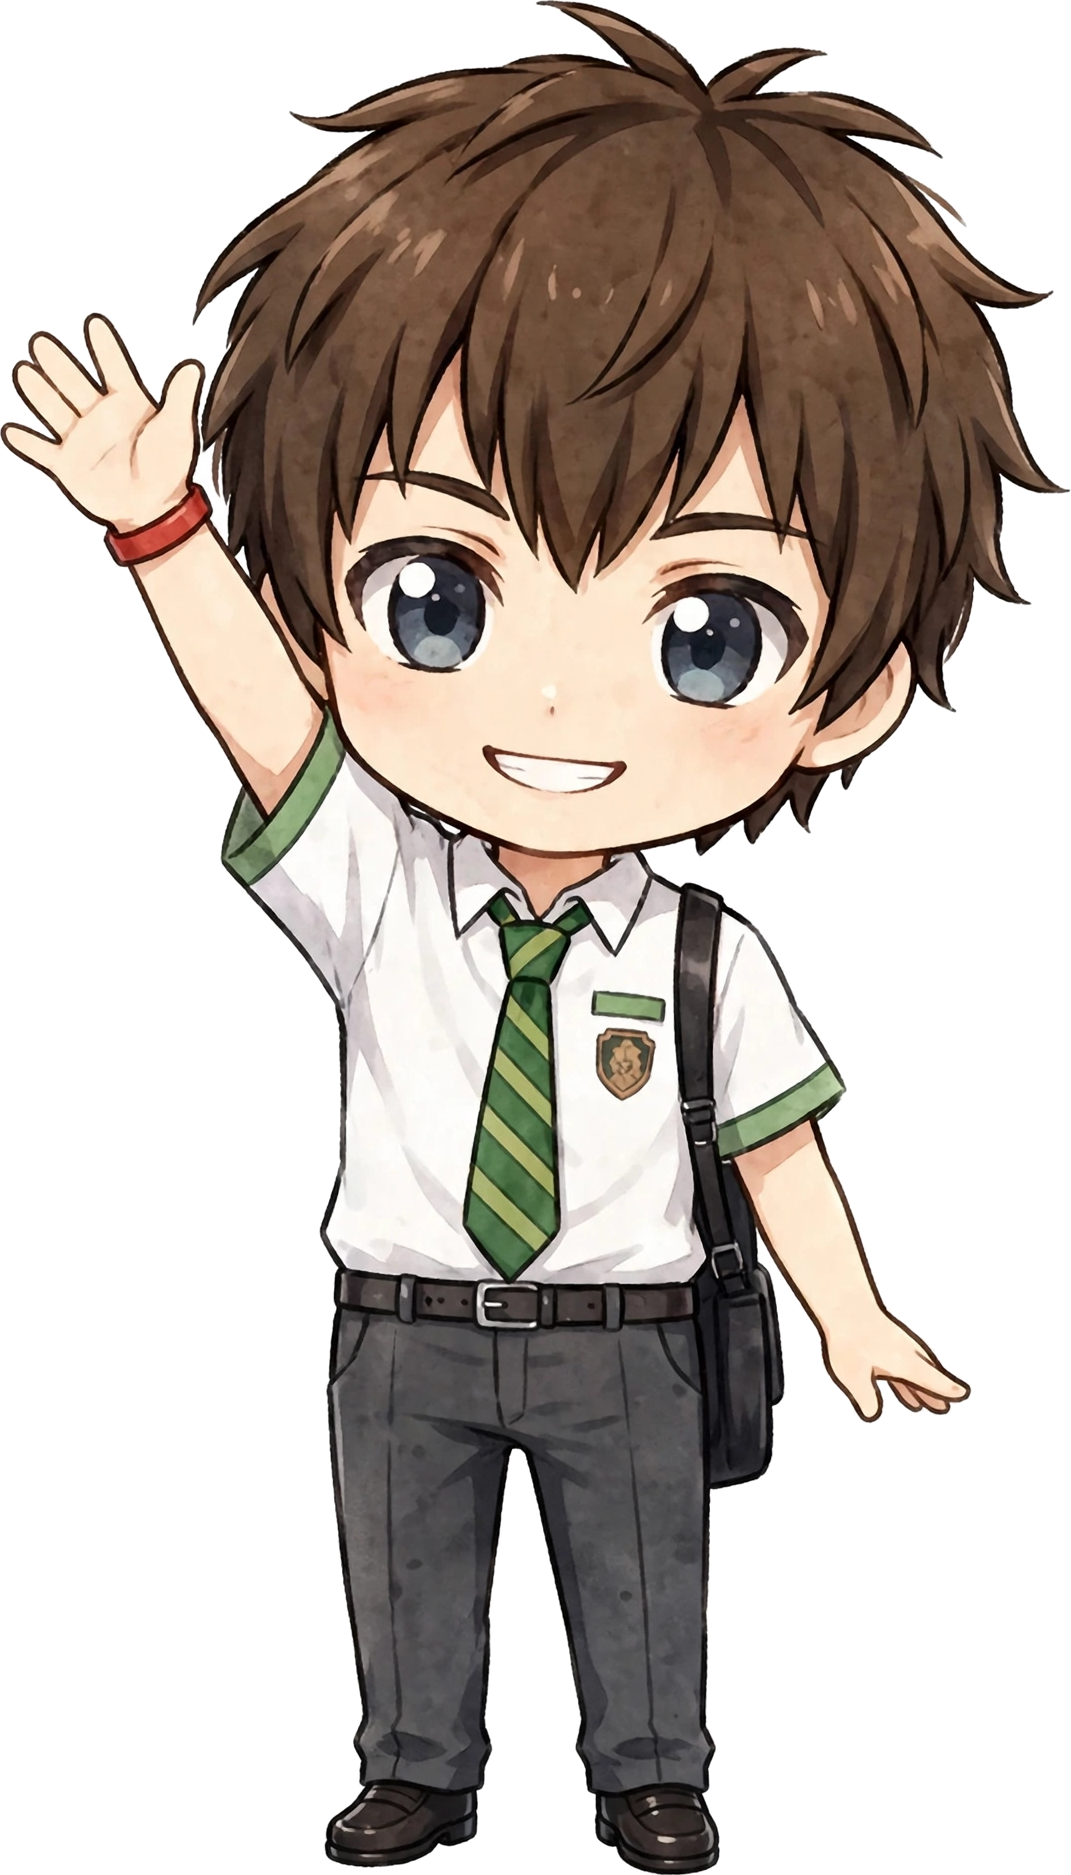
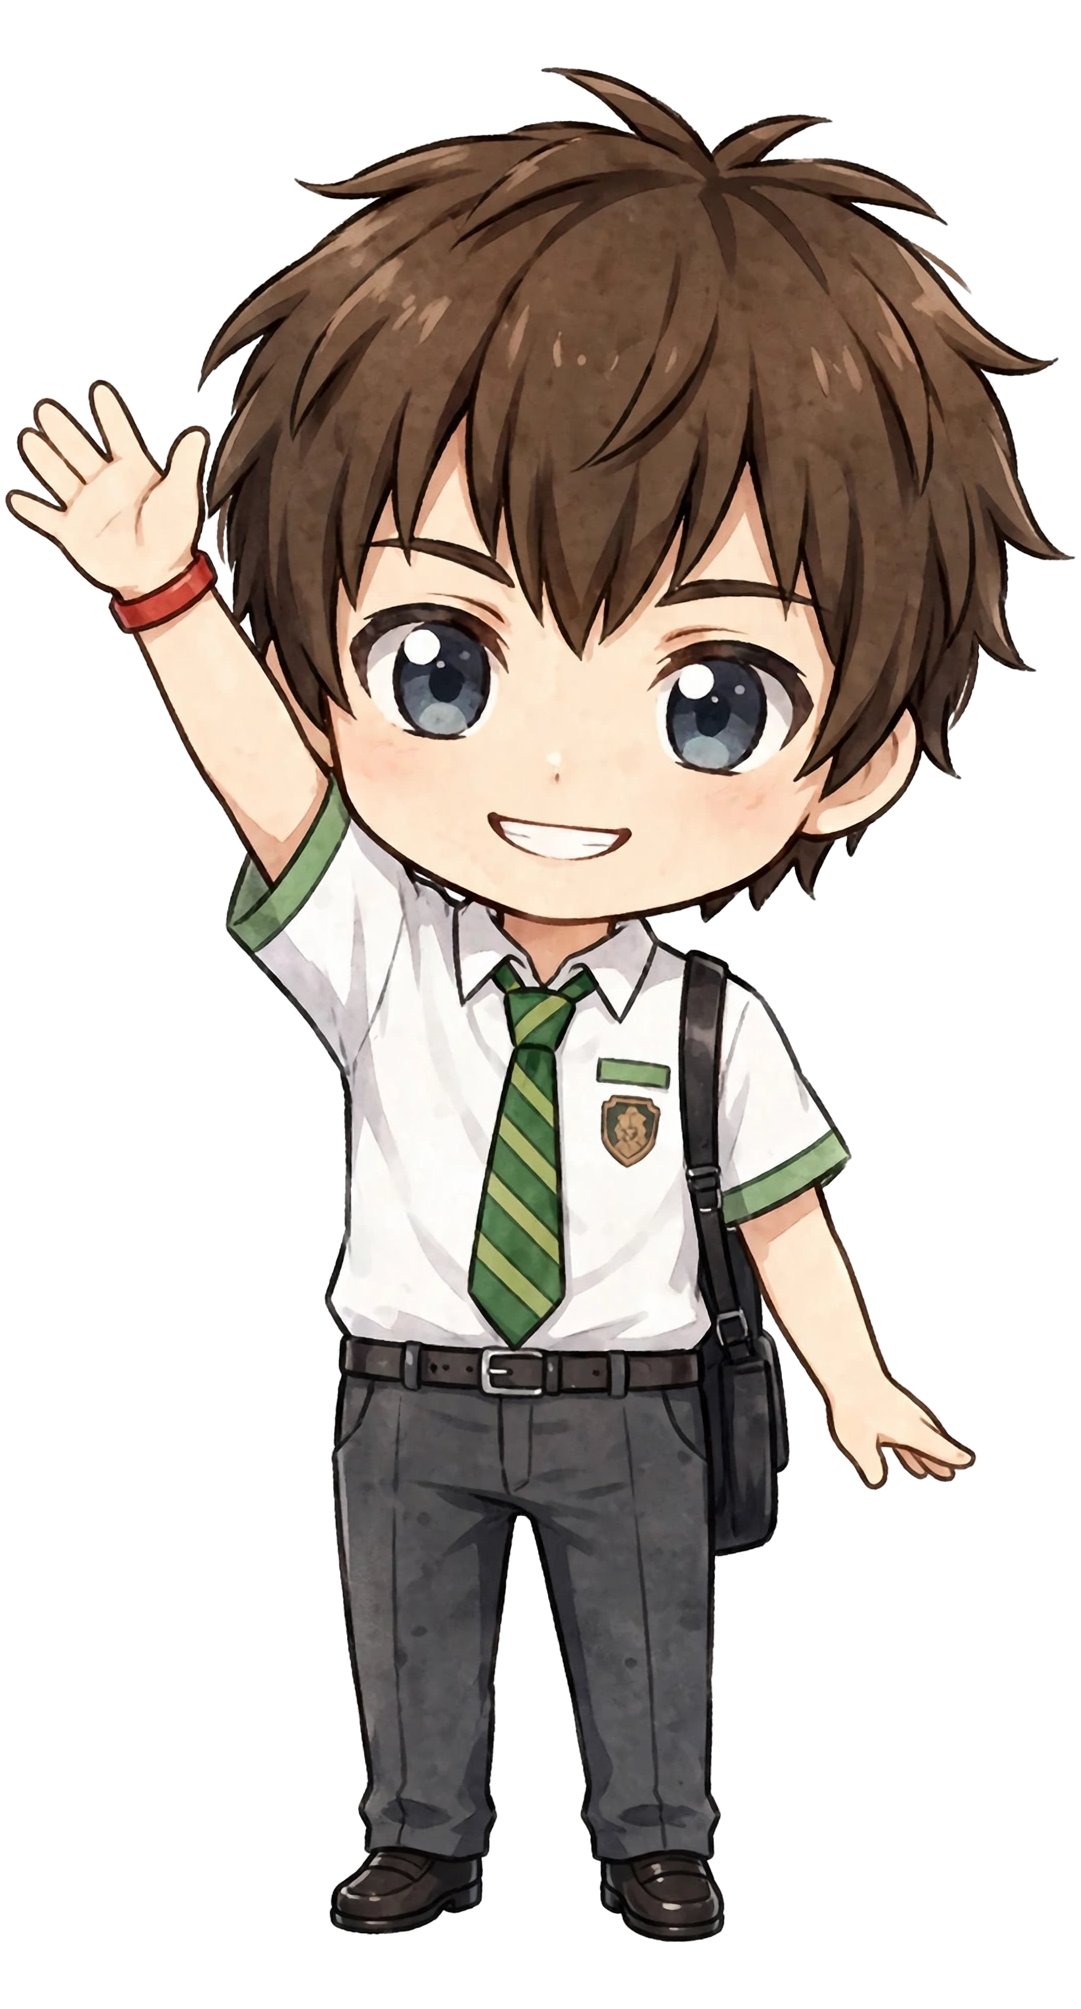
feat(yourname): Honors dạng ledger editorial; dây bện vẽ lại chân thật; chuẩn hoá canvas nhân vật + refactor PixelCharacter

Changed region(s): [[0.0, 0.0, 1.0, 1.0], [0.7703, 0.6496, 0.9244, 0.7733], [0.1541, 0.3403, 0.2157, 0.4021]]

diff --git a/src/components/yourname/BraidedCord.tsx b/src/components/yourname/BraidedCord.tsx
@@ -2,41 +2,98 @@
 
 /**
  * BraidedCord — the red braided-cord motif as a decorative divider.
- * Pure SVG: three interlaced strands + a musubi-style knot in the center.
+ *
+ * Rendered like a real kumihimo round braid: a cylindrical cord body with
+ * vertical shading, diagonal twist ribs, a top sheen highlight, and a
+ * musubi bow knot tied at the center (loops + wrap + hanging tails).
  * Used between sections and as small section markers.
  */
 
 import React from "react";
 
+const CORD_X0 = 14;
+const CORD_X1 = 586;
+const CORD_Y = 17;
+const CORD_H = 14;
+
+function TwistRibs() {
+  const ribs: React.ReactNode[] = [];
+  let i = 0;
+  for (let x = CORD_X0 + 8; x < CORD_X1 - 8; x += 13, i++) {
+    const dark = i % 2 === 0;
+    ribs.push(
+      <polygon
+        key={x}
+        points={`${x},${CORD_Y} ${x + 8},${CORD_Y} ${x + 3},${CORD_Y + CORD_H} ${x - 5},${CORD_Y + CORD_H}`}
+        fill={dark ? "rgba(40,4,12,0.28)" : "rgba(255,255,255,0.10)"}
+      />,
+    );
+  }
+  return <>{ribs}</>;
+}
+
 export function BraidedCord({ className = "" }: { className?: string }) {
-  // three sine strands interlaced
-  const strands = [0, 1, 2].map((s) => {
-    const pts: string[] = [];
-    for (let x = 0; x <= 600; x += 12) {
-      const y = 14 + Math.sin((x / 600) * Math.PI * 10 + (s * Math.PI * 2) / 3) * 7;
-      pts.push(`${x},${y.toFixed(1)}`);
-    }
-    return pts.join(" ");
-  });
-  const shades = ["#8f1f36", "#d8364f", "#f2698a"];
   return (
-    <div className={`yn-cord flex items-center justify-center gap-4 ${className}`} aria-hidden="true">
-      <svg viewBox="0 0 600 28" className="h-7 w-full max-w-xl" preserveAspectRatio="xMidYMid meet">
-        {strands.map((pts, i) => (
-          <polyline
-            key={i}
-            points={pts}
-            fill="none"
-            stroke={shades[i]}
-            strokeWidth={4.5 - i * 0.7}
-            strokeLinecap="round"
-            opacity={0.95 - i * 0.18}
-          />
-        ))}
-        {/* center knot */}
-        <circle cx={300} cy={14} r={9} fill="#d8364f" />
-        <circle cx={300} cy={14} r={9} fill="none" stroke="#8f1f36" strokeWidth={2.5} />
-        <circle cx={300} cy={14} r={3.2} fill="#ffd9e2" />
+    <div className={`flex items-center justify-center ${className}`} aria-hidden="true">
+      <svg viewBox="0 0 600 52" className="h-9 w-full max-w-xl" preserveAspectRatio="xMidYMid meet">
+        <defs>
+          <linearGradient id="yn-cord-body" x1="0" y1="0" x2="0" y2="1">
+            <stop offset="0" stopColor="#5e1224" />
+            <stop offset="0.32" stopColor="#b02340" />
+            <stop offset="0.5" stopColor="#f2768f" />
+            <stop offset="0.68" stopColor="#b02340" />
+            <stop offset="1" stopColor="#5e1224" />
+          </linearGradient>
+          <linearGradient id="yn-cord-knot" x1="0" y1="0" x2="0" y2="1">
+            <stop offset="0" stopColor="#e8556e" />
+            <stop offset="0.55" stopColor="#c22a44" />
+            <stop offset="1" stopColor="#8f1f36" />
+          </linearGradient>
+          <filter id="yn-cord-soft" x="-40%" y="-40%" width="180%" height="180%">
+            <feGaussianBlur stdDeviation="2.6" />
+          </filter>
+        </defs>
+
+        {/* ground shadow */}
+        <ellipse cx="300" cy="44" rx="252" ry="4.5" fill="#1a0a18" opacity="0.35" filter="url(#yn-cord-soft)" />
+
+        {/* tails (behind the knot) */}
+        <path d="M293,30 C290,37 286,42 280,47" fill="none" stroke="#8f1f36" strokeWidth="7" strokeLinecap="round" />
+        <path d="M293,30 C290,37 286,42 280,47" fill="none" stroke="#f2768f" strokeWidth="2" strokeLinecap="round" opacity="0.5" />
+        <path d="M307,30 C310,37 314,42 320,47" fill="none" stroke="#8f1f36" strokeWidth="7" strokeLinecap="round" />
+        <path d="M307,30 C310,37 314,42 320,47" fill="none" stroke="#f2768f" strokeWidth="2" strokeLinecap="round" opacity="0.5" />
+
+        {/* cord body */}
+        <rect x={CORD_X0} y={CORD_Y} width={CORD_X1 - CORD_X0} height={CORD_H} rx={CORD_H / 2} fill="url(#yn-cord-body)" />
+        <TwistRibs />
+        {/* sheen along the top */}
+        <rect x={CORD_X0 + 10} y={CORD_Y + 1.8} width={CORD_X1 - CORD_X0 - 20} height={2.6} rx={1.3} fill="#ffd9e2" opacity="0.32" />
+        {/* darker end caps */}
+        <ellipse cx={CORD_X0 + 2} cy={CORD_Y + CORD_H / 2} rx={6} ry={CORD_H / 2} fill="#4a0e1e" opacity="0.55" />
+        <ellipse cx={CORD_X1 - 2} cy={CORD_Y + CORD_H / 2} rx={6} ry={CORD_H / 2} fill="#4a0e1e" opacity="0.55" />
+
+        {/* musubi bow loops */}
+        <path
+          d="M300,24 C284,8 264,6 256,16 C250,24 260,34 278,34 C290,34 298,30 300,24 Z"
+          fill="url(#yn-cord-knot)"
+          stroke="#6e1a2c"
+          strokeWidth="1.2"
+        />
+        <path
+          d="M300,24 C316,8 336,6 344,16 C350,24 340,34 322,34 C310,34 302,30 300,24 Z"
+          fill="url(#yn-cord-knot)"
+          stroke="#6e1a2c"
+          strokeWidth="1.2"
+        />
+        {/* loop highlights */}
+        <path d="M288,14 C278,10 268,10 262,15" fill="none" stroke="#f7a8bb" strokeWidth="2" strokeLinecap="round" opacity="0.6" />
+        <path d="M312,14 C322,10 332,10 338,15" fill="none" stroke="#f7a8bb" strokeWidth="2" strokeLinecap="round" opacity="0.6" />
+
+        {/* center wrap */}
+        <rect x="289" y="13" width="22" height="22" rx="7" fill="url(#yn-cord-knot)" stroke="#5e1224" strokeWidth="1.6" />
+        <line x1="296" y1="15" x2="296" y2="33" stroke="rgba(40,4,12,0.4)" strokeWidth="1.6" />
+        <line x1="304" y1="15" x2="304" y2="33" stroke="rgba(40,4,12,0.4)" strokeWidth="1.6" />
+        <rect x="291.5" y="15" width="4" height="18" rx="2" fill="#f7a8bb" opacity="0.45" />
       </svg>
     </div>
   );
@@ -45,10 +102,17 @@ export function BraidedCord({ className = "" }: { className?: string }) {
 /** Small knot marker used inline before headings / list items. */
 export function CordKnot({ className = "" }: { className?: string }) {
   return (
-    <svg viewBox="0 0 20 20" className={`inline-block h-4 w-4 ${className}`} aria-hidden="true">
-      <circle cx={10} cy={10} r={7} fill="#d8364f" />
-      <circle cx={10} cy={10} r={7} fill="none" stroke="#8f1f36" strokeWidth={2} />
-      <circle cx={10} cy={10} r={2.4} fill="#ffd9e2" />
+    <svg viewBox="0 0 24 24" className={`inline-block h-4 w-4 ${className}`} aria-hidden="true">
+      <defs>
+        <linearGradient id="yn-knot-mini" x1="0" y1="0" x2="0" y2="1">
+          <stop offset="0" stopColor="#d8364f" />
+          <stop offset="1" stopColor="#7d1a2e" />
+        </linearGradient>
+      </defs>
+      <path d="M12,12 C8,6 3,6 2.4,10.2 C1.9,14 7,16.4 12,12 Z" fill="url(#yn-knot-mini)" stroke="#5e1224" strokeWidth="1.2" />
+      <path d="M12,12 C16,6 21,6 21.6,10.2 C22.1,14 17,16.4 12,12 Z" fill="url(#yn-knot-mini)" stroke="#5e1224" strokeWidth="1.2" />
+      <circle cx="12" cy="12" r="3.6" fill="#d8364f" stroke="#5e1224" strokeWidth="1.2" />
+      <circle cx="10.8" cy="10.8" r="1.1" fill="#f7a8bb" opacity="0.8" />
     </svg>
   );
 }

diff --git a/src/components/yourname/PixelCharacter.tsx b/src/components/yourname/PixelCharacter.tsx
@@ -12,9 +12,12 @@
  *
  * Deliberately NOT synced to the music beat — the sky dances to the music,
  * the characters just enjoy the evening.
+ *
+ * Asset note: all poses of a character share one identical canvas (padded
+ * and position-aligned), so blinks and pose swaps never jump or shift.
  */
 
-import React, { useEffect, useRef, useState } from "react";
+import React, { useEffect, useState } from "react";
 import { Heart } from "lucide-react";
 
 export type CharacterId = "boy" | "girl";
@@ -46,39 +49,44 @@ export interface PixelCharacterProps {
   label: string;
 }
 
-/** Run `fn` after a random delay in [minMs, maxMs], tracked for cleanup. */
-function useRandomLoop(
+/**
+ * Random pulse: turns `true` for `holdMs` every `minDelay–maxDelay` ms.
+ * Used for blinks and autonomous waves.
+ */
+function useRandomPulse(
   active: boolean,
-  minMs: number,
-  maxMs: number,
-  fn: () => void,
-  holdMs = 0,
-) {
-  const timers = useRef<number[]>([]);
+  minDelay: number,
+  maxDelay: number,
+  holdMs: number,
+): boolean {
+  const [on, setOn] = useState(false);
   useEffect(() => {
     if (!active) return;
     let alive = true;
-    const later = (cb: () => void, ms: number) => {
-      const t = window.setTimeout(() => {
-        if (alive) cb();
-      }, ms);
-      timers.current.push(t);
-    };
-    const schedule = (): void => {
-      later(() => {
-        fn();
-        if (holdMs > 0) later(schedule, holdMs);
-        else schedule();
-      }, minMs + Math.random() * (maxMs - minMs));
+    let t1 = 0;
+    let t2 = 0;
+    const schedule = () => {
+      t1 = window.setTimeout(
+        () => {
+          if (!alive) return;
+          setOn(true);
+          t2 = window.setTimeout(() => {
+            if (!alive) return;
+            setOn(false);
+            schedule();
+          }, holdMs);
+        },
+        minDelay + Math.random() * (maxDelay - minDelay),
+      );
     };
     schedule();
     return () => {
       alive = false;
-      timers.current.forEach(clearTimeout);
-      timers.current = [];
+      clearTimeout(t1);
+      clearTimeout(t2);
     };
-    // eslint-disable-next-line react-hooks/exhaustive-deps
-  }, [active]);
+  }, [active, minDelay, maxDelay, holdMs]);
+  return on;
 }
 
 export function PixelCharacter({
@@ -87,52 +95,27 @@ export function PixelCharacter({
   className = "",
   label,
 }: PixelCharacterProps) {
-  const [blinking, setBlinking] = useState(false);
-  const [autoWaving, setAutoWaving] = useState(false);
+  const idle = pose === "idle";
+  const blinking = useRandomPulse(idle, 2600, 6000, 170);
+  const autoWaving = useRandomPulse(idle, 10000, 16000, 1600);
   const [excited, setExcited] = useState(false);
   const [hearts, setHearts] = useState<number[]>([]);
-  const timers = useRef<number[]>([]);
-  const idle = pose === "idle";
 
-  // Periodic happy blink: every ~3–6s, eyes close ~170ms.
-  useRandomLoop(
-    idle,
-    2600,
-    6000,
-    () => {
-      setBlinking(true);
-      const t = window.setTimeout(() => setBlinking(false), 170);
-      timers.current.push(t);
-    },
-  );
-
-  // Every ~10–16s the character waves hello on its own for ~1.6s.
-  useRandomLoop(idle, 10000, 16000, () => setAutoWaving(true), 1600);
+  // End the tap excitement after the hop + hearts finish.
   useEffect(() => {
-    if (!autoWaving) return;
-    const t = window.setTimeout(() => setAutoWaving(false), 1600);
-    timers.current.push(t);
-    return () => clearTimeout(t);
-  }, [autoWaving]);
-
-  // Tap / click: happy hop, wave, hearts burst.
-  const handleInteract = () => {
-    if (excited) return;
-    setExcited(true);
-    setHearts(HEART_SPOTS.map((_, i) => Date.now() + i));
+    if (!excited) return;
     const t = window.setTimeout(() => {
       setExcited(false);
       setHearts([]);
     }, 1250);
-    timers.current.push(t);
-  };
+    return () => clearTimeout(t);
+  }, [excited]);
 
-  useEffect(
-    () => () => {
-      timers.current.forEach(clearTimeout);
-    },
-    [],
-  );
+  const handleInteract = () => {
+    if (excited) return;
+    setExcited(true);
+    setHearts(HEART_SPOTS.map((_, i) => Date.now() + i));
+  };
 
   const waving = excited || autoWaving;
   const shownPose: CharacterPose = waving ? "wave" : pose;

diff --git a/src/components/sections/AwardsSection.tsx b/src/components/sections/AwardsSection.tsx
@@ -2,23 +2,19 @@
 
 /**
  * AwardsSection (Your Name theme) — 輝 brilliance.
- * Honors ledger under the twilight sky.
+ *
+ * An editorial honors ledger: numbered rows with hairline dividers,
+ * generous whitespace, no icon badges or pill tags. It reads like a
+ * printed record, not a template.
  */
 
 import React from "react";
-import { Trophy, Sparkles, Medal, Award } from "lucide-react";
 import { useLanguage } from "@/hooks/useLanguage";
 import { awardsData } from "@/data/portfolio-content";
 import { resolveLocale } from "@/lib/locale";
 import { SectionHeading } from "@/components/yourname/SectionHeading";
 import { Reveal } from "@/components/yourname/Reveal";
 import { BraidedCord } from "@/components/yourname/BraidedCord";
-
-const ICONS: Record<string, React.ReactNode> = {
-  Trophy: <Trophy className="h-6 w-6" aria-hidden="true" />,
-  Sparkles: <Sparkles className="h-6 w-6" aria-hidden="true" />,
-  Medal: <Medal className="h-6 w-6" aria-hidden="true" />,
-};
 
 export function AwardsSection() {
   const { isVi, t } = useLanguage();
@@ -35,32 +31,35 @@ export function AwardsSection() {
           />
         </Reveal>
 
-        <div className="space-y-5">
+        <ol className="mt-6">
           {awardsData.map((a, i) => (
             <Reveal key={a.id} delay={i * 80}>
-              <article className="yn-card yn-card-interactive flex gap-5 p-6 sm:p-7">
-                <div className="flex h-12 w-12 shrink-0 items-center justify-center rounded-full bg-gradient-to-br from-[#d8364f] to-[#e0705a] text-white shadow-[0_8px_24px_-6px_rgba(216,54,79,0.7)]">
-                  {ICONS[a.iconName] ?? <Award className="h-6 w-6" aria-hidden="true" />}
+              <li className="grid gap-3 border-t border-[#e8dcc8]/15 py-7 sm:grid-cols-[88px_1fr] sm:gap-8">
+                <div className="flex items-baseline gap-4 sm:block">
+                  <p className="font-mono text-base text-[#f7b267]">{a.year}</p>
+                  <p className="font-mono text-[11px] uppercase tracking-[0.22em] text-[#e8dcc8]/40 sm:mt-2">
+                    {t({ en: "No.", vi: "Số" })} {String(i + 1).padStart(2, "0")}
+                  </p>
                 </div>
                 <div className="min-w-0">
-                  <div className="flex flex-wrap items-baseline gap-x-3 gap-y-1">
-                    <h3 className="yn-display text-xl text-[#fdf6ec]">
-                      {resolveLocale(a.title, isVi)}
-                    </h3>
-                    <span className="font-mono text-xs text-[#f7b267]/80">{a.year}</span>
-                  </div>
-                  <p className="mt-1 text-sm text-[#e8dcc8]/75">
+                  <h3 className="yn-display text-2xl leading-snug text-[#fdf6ec]">
+                    {resolveLocale(a.title, isVi)}
+                  </h3>
+                  <p className="mt-2 text-[13px] uppercase tracking-[0.16em] text-[#e8dcc8]/55">
                     {resolveLocale(a.organization, isVi)}
                   </p>
-                  <p className="yn-tag mt-3 inline-block">{resolveLocale(a.badgeText, isVi)}</p>
-                  <p className="mt-3 text-sm leading-relaxed text-[#e8dcc8]/85">
+                  <p className="mt-4 max-w-2xl text-[15px] leading-relaxed text-[#e8dcc8]/80">
                     {resolveLocale(a.description, isVi)}
                   </p>
+                  <p className="mt-3 font-mono text-xs text-[#f7b267]/70">
+                    {resolveLocale(a.badgeText, isVi)}
+                  </p>
                 </div>
-              </article>
+              </li>
             </Reveal>
           ))}
-        </div>
+        </ol>
+        <div className="border-t border-[#e8dcc8]/15" />
 
         <BraidedCord className="mt-16" />
       </div>
